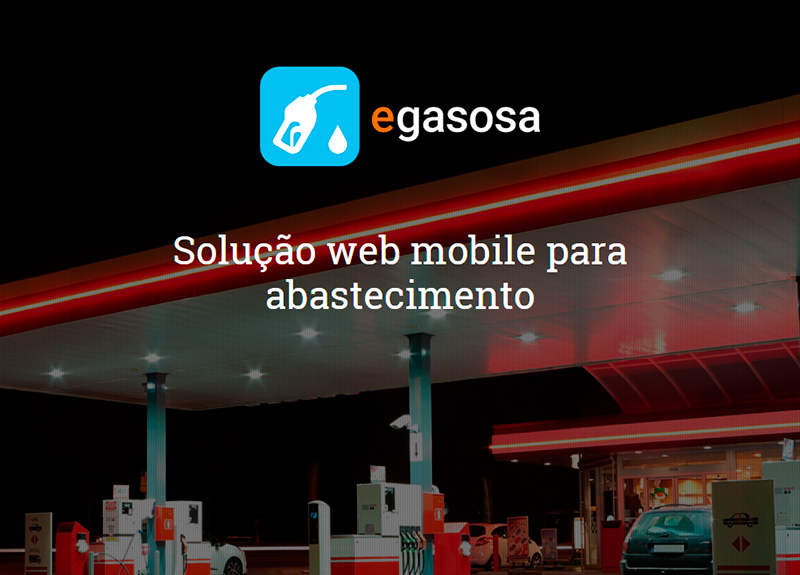
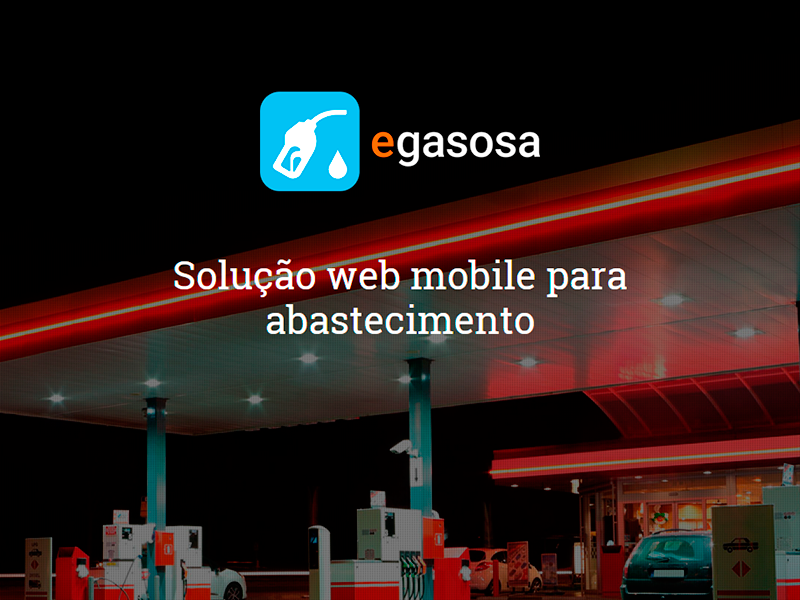
Ajuste images FB

diff --git a/index.html b/index.html
@@ -48,8 +48,8 @@
     <meta property="og:description" content="Seu combustível na palma da mão">
     <meta property="og:image" content="http://egasosa.com.br/images/fb.png">
     <meta property="og:image:type" content="image/png">
-    <meta property="og:image:width" content="800"> /** PIXELS **/
-    <meta property="og:image:height" content="575"> /** PIXELS **/
+    <meta property="og:image:width" content="800">
+    <meta property="og:image:height" content="600">
     <!-- End Facebook -->
 
 
